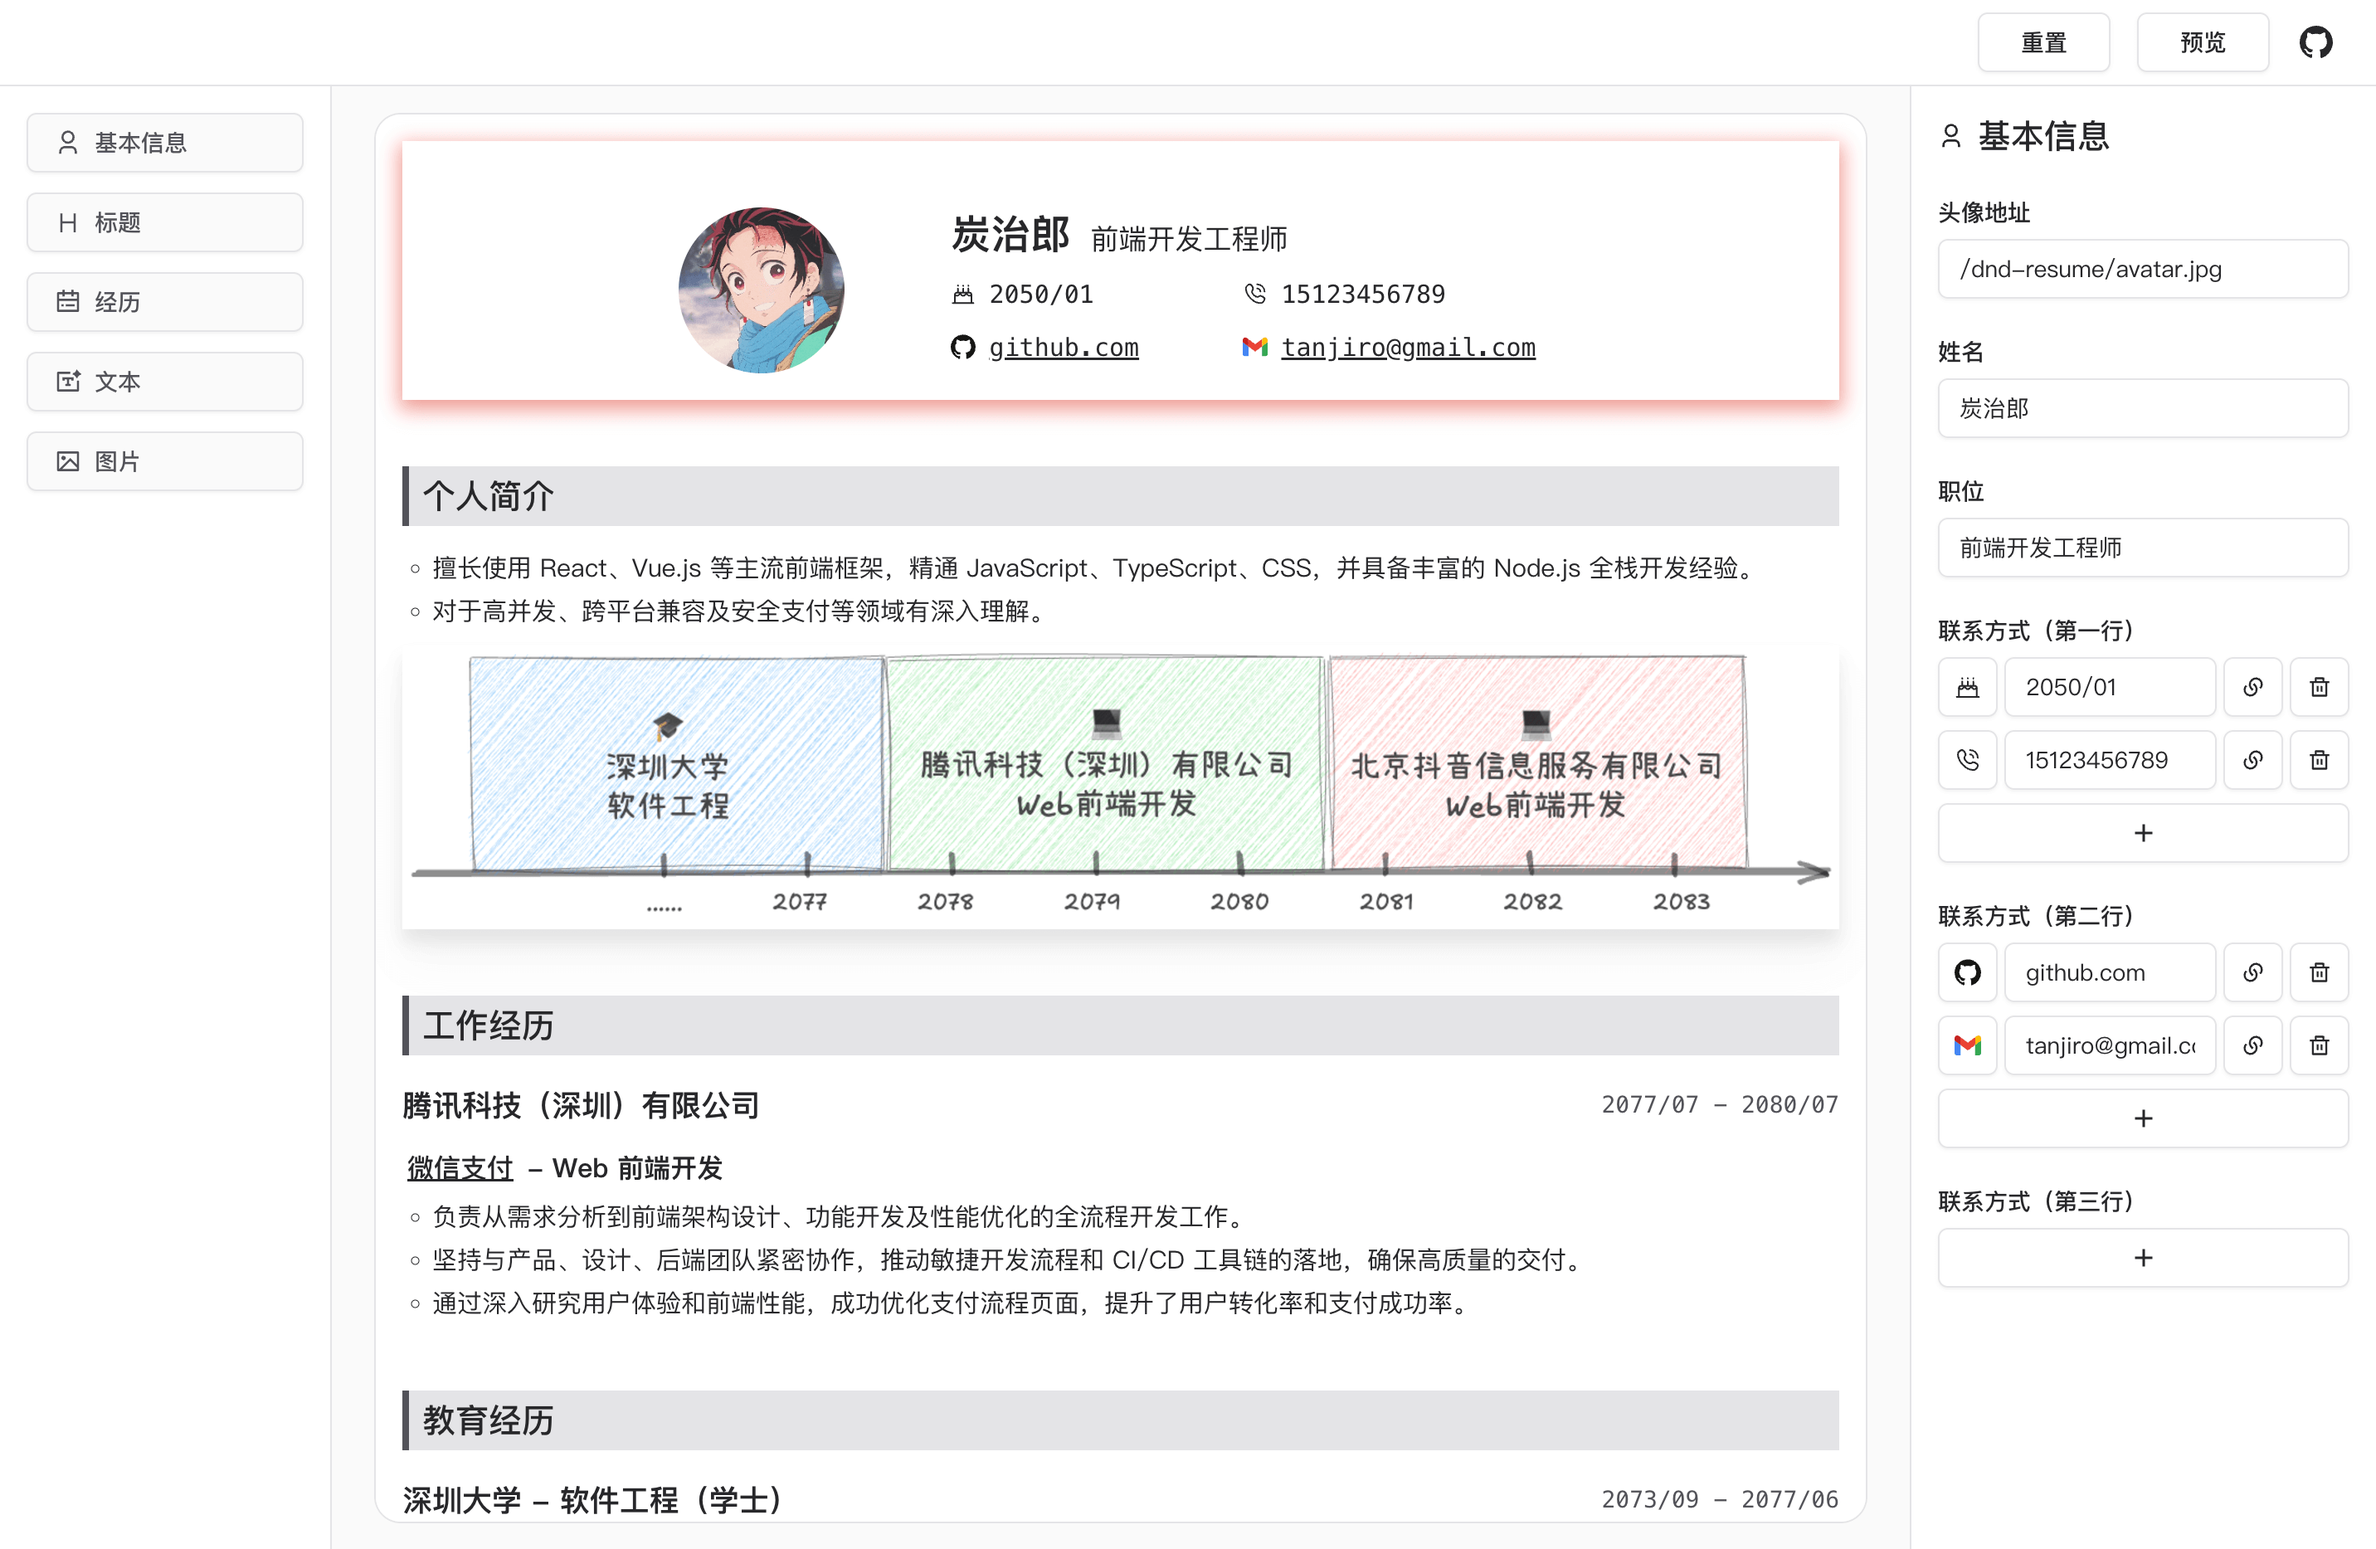
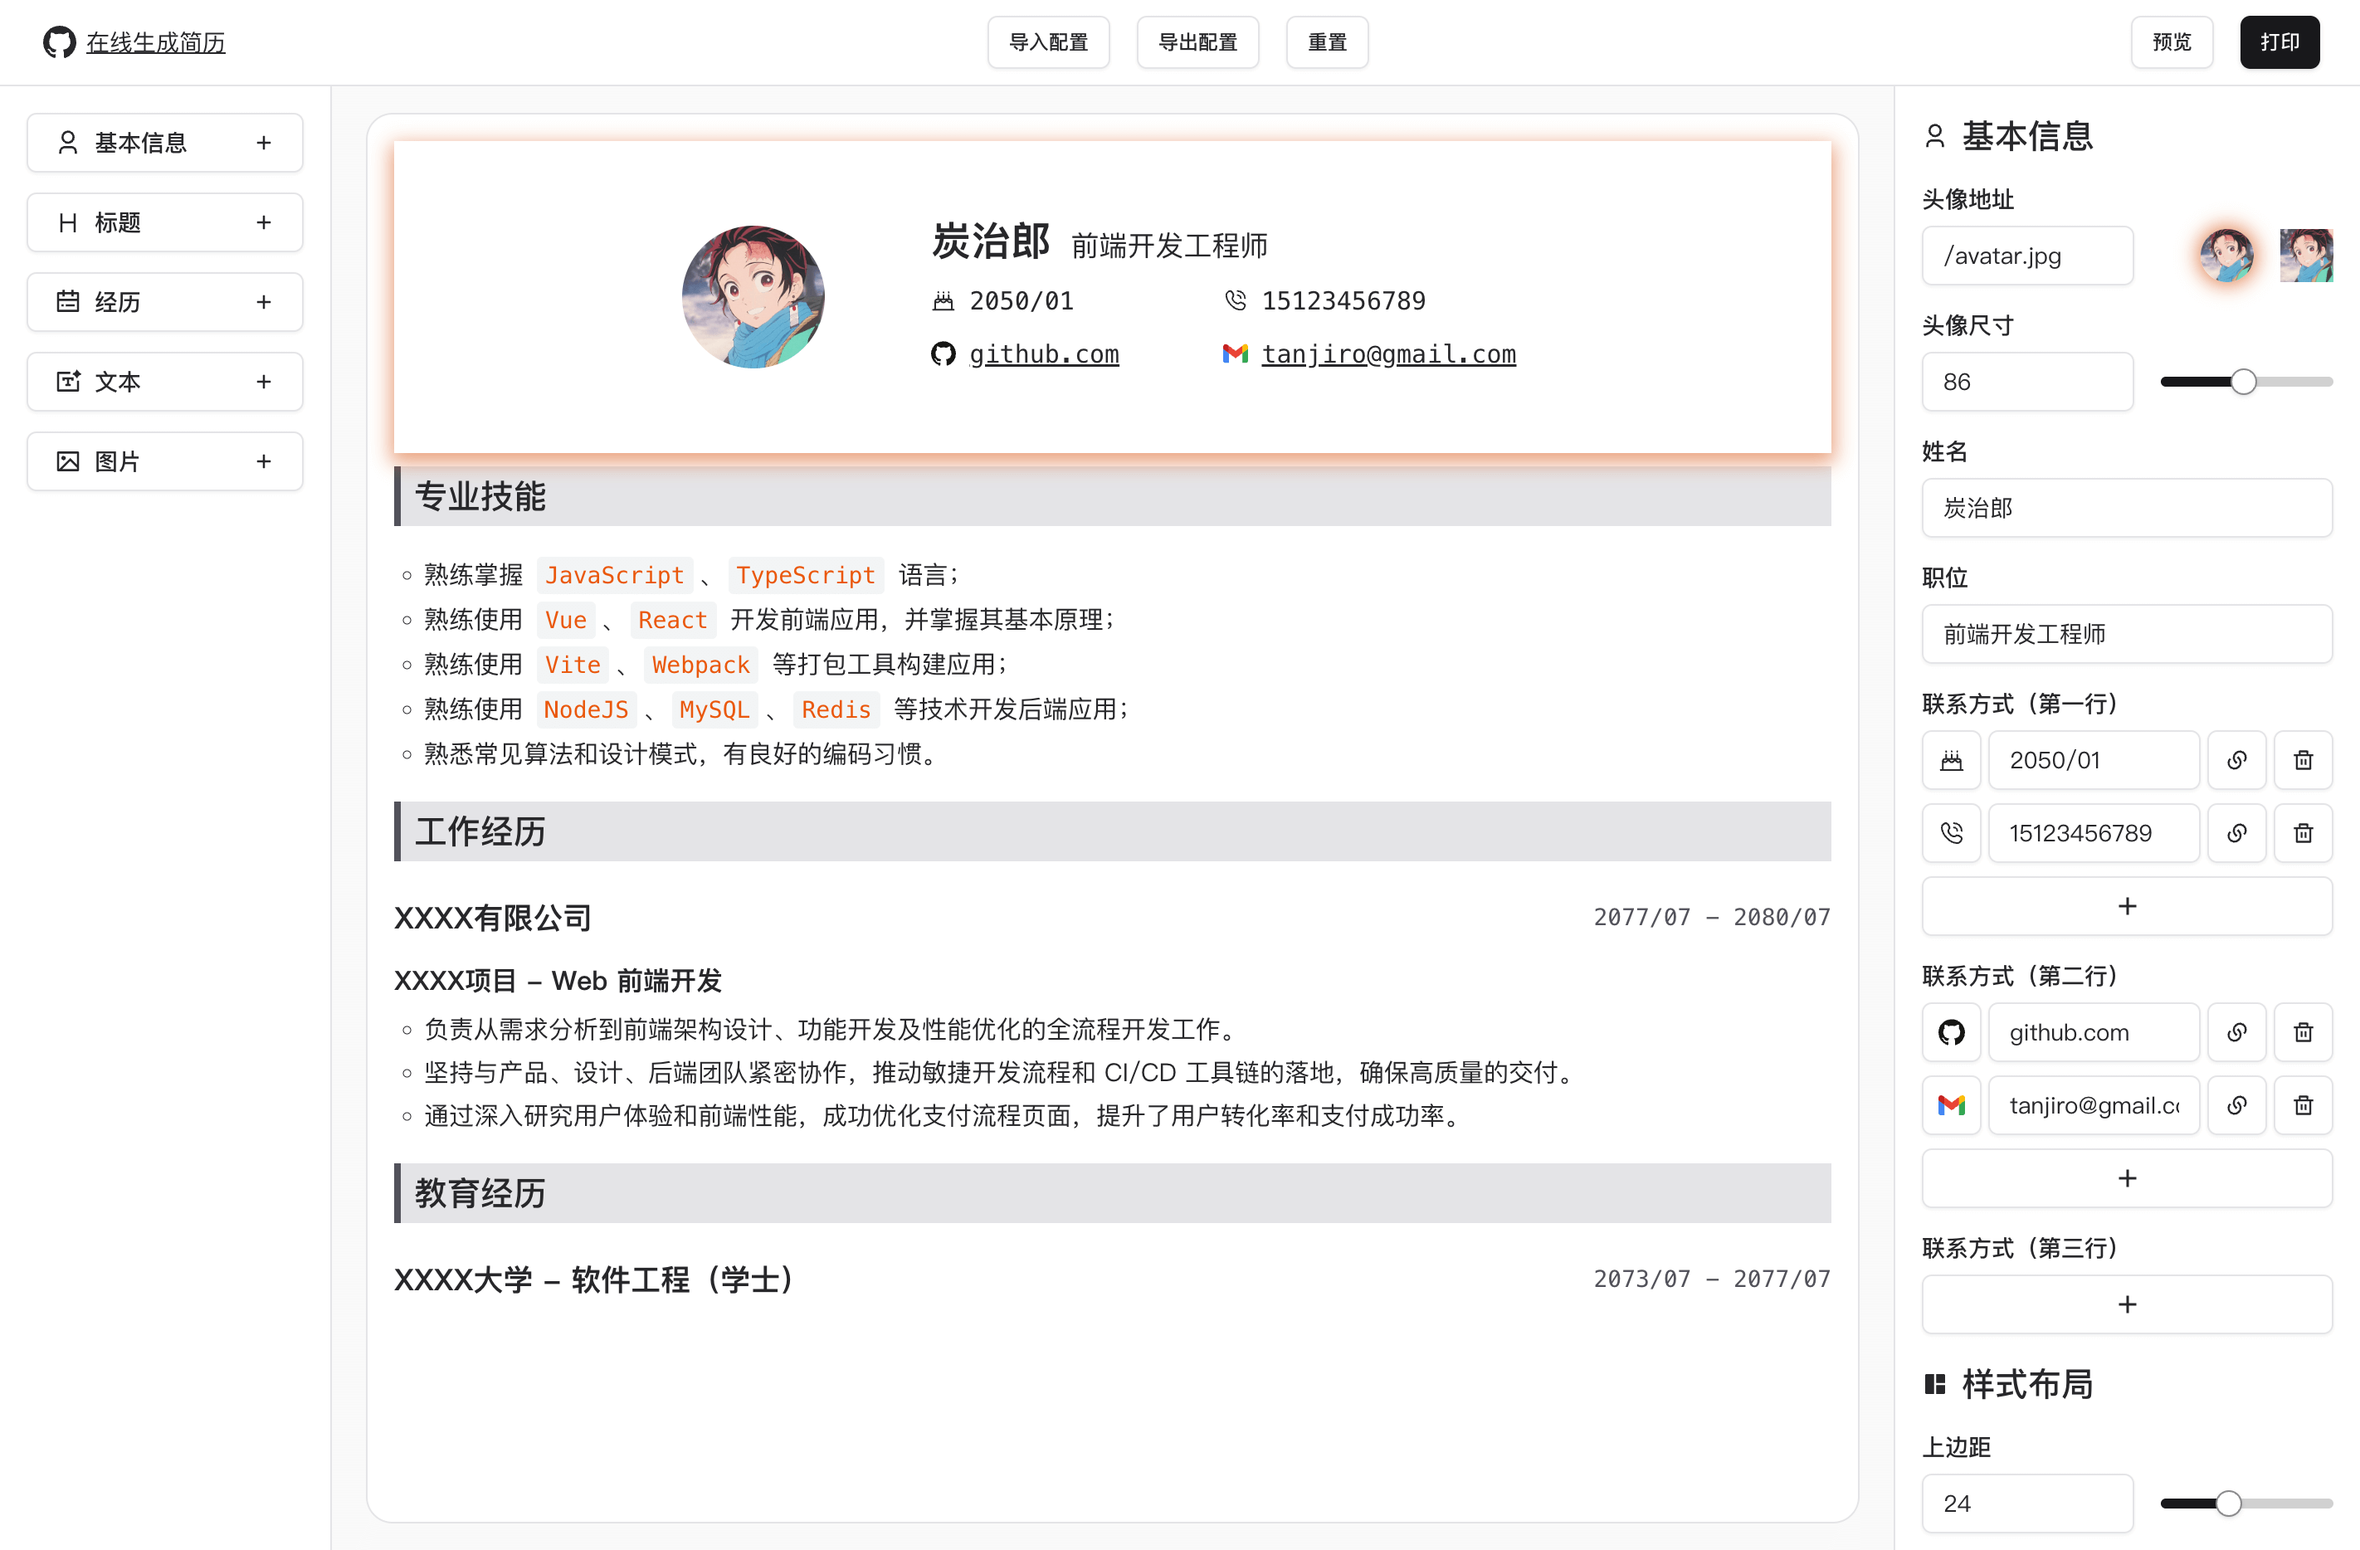
feat: import and export config

diff --git a/src/pages/edit/edit-header.tsx b/src/pages/edit/edit-header.tsx
@@ -10,19 +10,72 @@ import {
   AlertDialogTrigger,
 } from '@/components/ui/alert-dialog'
 import { Button } from '@/components/ui/button'
+import { widgetsSchema } from '@/components/widgets/widgets-schema'
 import { encodeToBase64Url } from '@/lib/utils.ts'
 import { useWidgetsStore } from '@/store/widgets-store.ts'
+import { type ChangeEvent, useRef } from 'react'
 import { useNavigate } from 'react-router'
+import { toast } from 'sonner'
 
 const EditHeader = () => {
   const widgets = useWidgetsStore(state => state.widgets)
   const resetWidgets = useWidgetsStore(state => state.resetWidgets)
+  const setWidgets = useWidgetsStore(state => state.setWidgets)
+  const setSelectedId = useWidgetsStore(state => state.setSelectedId)
   const navigate = useNavigate()
+
+  const inputRef = useRef<HTMLInputElement>(null)
+  const handleImportConfig = (event: ChangeEvent<HTMLInputElement>) => {
+    const file = event.target.files?.[0]
+    if (file) {
+      const reader = new FileReader()
+      reader.onload = e => {
+        try {
+          const json = e.target?.result as string
+          const ret = widgetsSchema.safeParse(JSON.parse(json))
+          if (ret.success) {
+            const importedWidgets = ret.data
+            setWidgets(importedWidgets)
+            setSelectedId(importedWidgets.length ? importedWidgets[0].id : '')
+            toast.success('成功导入配置文件', {
+              position: 'top-center',
+            })
+          } else {
+            console.error(ret.error)
+            toast.error('配置文件解析失败', {
+              position: 'top-center',
+            })
+          }
+        } catch (error) {
+          console.error(error)
+          toast.error('配置文件解析失败', {
+            position: 'top-center',
+          })
+        }
+      }
+      reader.readAsText(file)
+    }
+  }
+
+  const handleClickExport = () => {
+    const dataStr = JSON.stringify(widgets, null, 2)
+    const blob = new Blob([dataStr], { type: 'application/json' })
+    const url = URL.createObjectURL(blob)
+    const a = document.createElement('a')
+    a.href = url
+    a.download = 'resume-config.json'
+    a.click()
+    URL.revokeObjectURL(url)
+    toast.success('成功导出配置文件', {
+      position: 'top-center',
+    })
+  }
 
   const handleClickPreview = () => {
     const base64 = encodeToBase64Url(JSON.stringify(widgets))
     navigate('/preview?data=' + base64)
   }
+
   const handleClickPrint = () => {
     sessionStorage.setItem('PRINT', 'true')
     navigate('/preview')
@@ -41,6 +94,29 @@ const EditHeader = () => {
       </a>
 
       <div className="flex-center gap-4">
+        <input
+          ref={inputRef}
+          type="file"
+          accept="application/json"
+          onChange={handleImportConfig}
+          style={{ display: 'none' }}
+        />
+        <Button
+          variant="outline"
+          size="sm"
+          onClick={() => inputRef.current?.click()}
+        >
+          导入配置
+        </Button>
+
+        <Button
+          variant="outline"
+          size="sm"
+          onClick={handleClickExport}
+        >
+          导出配置
+        </Button>
+
         <AlertDialog>
           <AlertDialogTrigger asChild>
             <Button

diff --git a/src/pages/page-preview.tsx b/src/pages/page-preview.tsx
@@ -9,6 +9,7 @@ import { decodeFromBase64Url } from '@/lib/utils'
 import { useWidgetsStore } from '@/store/widgets-store.ts'
 import { useEffect } from 'react'
 import { useNavigate, useSearchParams } from 'react-router'
+import { toast } from 'sonner'
 
 const PagePreview = () => {
   /**
@@ -25,10 +26,10 @@ const PagePreview = () => {
     }
   }, [navigate])
 
+  let widgets = useWidgetsStore(state => state.widgets)
   /**
    * Get widgets data from the URL query string.
    */
-  let widgets = useWidgetsStore(state => state.widgets)
   const [searchParams] = useSearchParams()
   const data = searchParams.get('data')
   if (data) {
@@ -38,10 +39,22 @@ const PagePreview = () => {
       if (ret.success) {
         widgets = ret.data
       } else {
+        widgets = []
         console.error(ret.error)
+        setTimeout(() => {
+          toast.error('参数解析失败', {
+            position: 'top-center',
+          })
+        }, 100)
       }
     } catch (error) {
+      widgets = []
       console.error(error)
+      setTimeout(() => {
+        toast.error('参数解析失败', {
+          position: 'top-center',
+        })
+      }, 100)
     }
   }
 

diff --git a/src/components/ui/sonner.tsx b/src/components/ui/sonner.tsx
@@ -1,0 +1,27 @@
+import { useTheme } from 'next-themes'
+import { Toaster as Sonner } from 'sonner'
+
+type ToasterProps = React.ComponentProps<typeof Sonner>
+
+const Toaster = ({ ...props }: ToasterProps) => {
+  const { theme = 'system' } = useTheme()
+
+  return (
+    <Sonner
+      theme={theme as ToasterProps['theme']}
+      className="toaster group"
+      toastOptions={{
+        classNames: {
+          toast:
+            'group toast mt-8 group-[.toaster]:bg-background group-[.toaster]:text-foreground group-[.toaster]:border-border group-[.toaster]:shadow-lg',
+          description: 'group-[.toast]:text-muted-foreground',
+          actionButton: 'group-[.toast]:bg-primary group-[.toast]:text-primary-foreground',
+          cancelButton: 'group-[.toast]:bg-muted group-[.toast]:text-muted-foreground',
+        },
+      }}
+      {...props}
+    />
+  )
+}
+
+export { Toaster }

diff --git a/src/store/widgets-store.ts b/src/store/widgets-store.ts
@@ -2,6 +2,7 @@ import { widgetsSchema } from '@/components/widgets/widgets-schema.ts'
 import type { WidgetNode } from '@/components/widgets/widgets-type.d.ts'
 import { createDefaultWidgets } from '@/components/widgets/widgets-util.ts'
 import { storage } from '@/lib/utils.ts'
+import { toast } from 'sonner'
 import { create } from 'zustand'
 
 interface PageState {
@@ -25,6 +26,11 @@ const useWidgetsStore = create<PageState>()((set, get) => {
       widgets = ret.data
     } else {
       console.error(ret.error)
+      setTimeout(() => {
+        toast.error('配置文件解析失败', {
+          position: 'top-center',
+        })
+      }, 100)
     }
   } else {
     // initial data

diff --git a/src/main.tsx b/src/main.tsx
@@ -5,11 +5,13 @@ import { Analytics } from '@vercel/analytics/react'
 import { StrictMode } from 'react'
 import { createRoot } from 'react-dom/client'
 import { BrowserRouter, Route, Routes } from 'react-router'
+import { Toaster } from './components/ui/sonner'
 import './index.css'
 
 createRoot(document.getElementById('root')!).render(
   <StrictMode>
     <BrowserRouter>
+      <Toaster />
       <Routes>
         <Route
           path="/"
